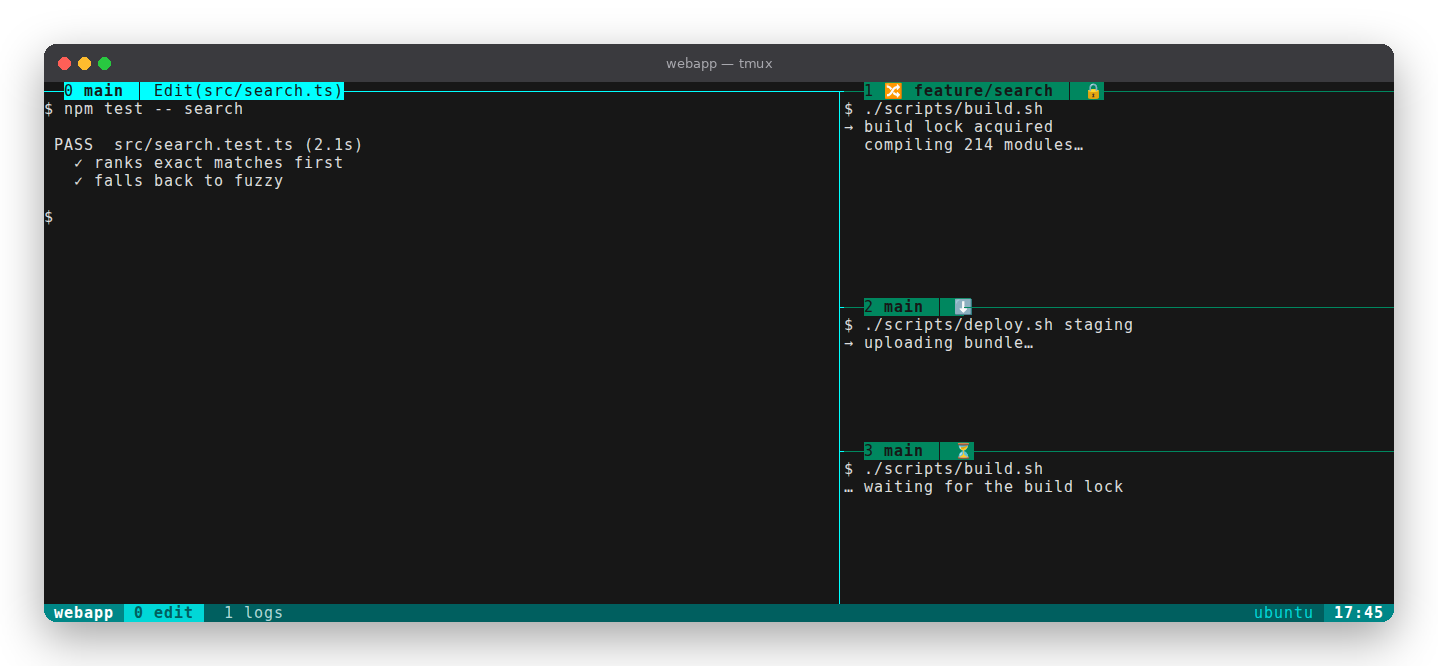
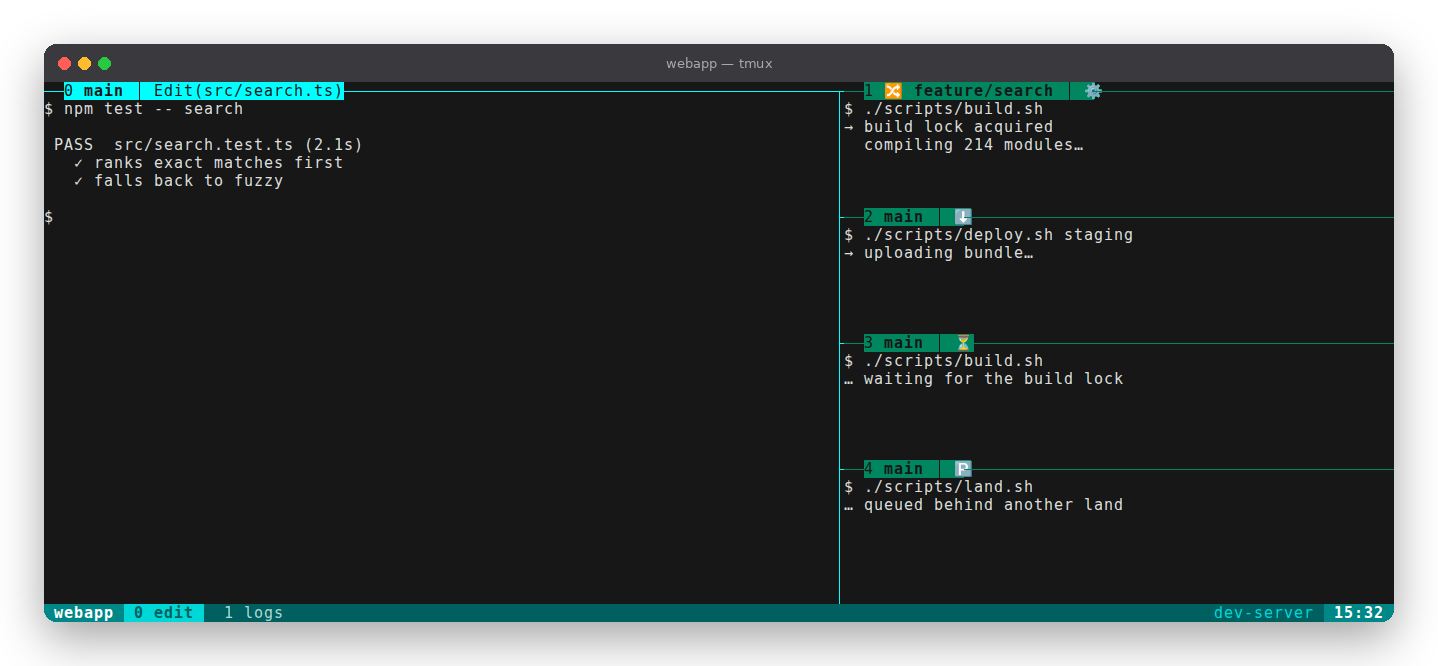
feat(tmux): give `.land` the wait/hold grammar and split glyphs by state
`.gate` modelled a queue position (`wait`/`hold`); `.land` modelled only
presence (`<pid>`), because nothing serialized lands and there was no queue
to model. A project that now serializes them needs to say which of the two
states it is in, so `.land` accepts the same two tokens `.gate` already did.

This also fixes a glyph that was actively lying. A queued land used to render
⏳ from the *gate* file — "waiting for CPU" — when such a land was in fact
doomed: it held a rebase onto a `main` the winner had since moved and would
lose its fast-forward after paying a full gate. ⏳ read as "queued, will
proceed", which is precisely what it did not mean.

Taken as a whole rather than bolting a fourth glyph onto three, because the
existing pair had two problems:

- **The gate pair read backwards.** 🔒 meant "I own the lock, the gate is
  *running*", but a padlock reads as *blocked*; ⏳ meant "queued, doing
  nothing", but an hourglass reads as *in progress*. At a glance both were
  inverted. 🔒 is retired for ⚙.
- **The two concerns encoded the same axis on different metaphors** (gate:
  time → lock; land: place → motion), so nothing signalled that 🔒 and ⬇
  were the same *kind* of state.

The pairs now split by **state**, not concern — ⏳/🅿 stopped, ⚙/⬇ working —
so a glance reads "is it moving?" first and "which concern?" second.

No flag day in either direction. `read_state` splits on the *last* space, so
an old resolver reads a new two-token `.land` body's pid correctly; and this
[…]

diff --git a/README.md b/README.md
@@ -4,14 +4,15 @@ Version-controlled tmux setup: a per-project colour scheme driven by files that 
 **in each project**, plus the pane-border status line.
 
 ![A tmux session tinted by its project's palette. Each pane border carries its index and git
-branch; one pane is in a linked worktree and holds the build lock, another is landing a
-deploy, a third is waiting for the lock. The active pane's border also shows the tool Claude
-Code is running.](docs/screenshot.png)
+branch; one pane is in a linked worktree running the gate it holds the build lock for,
+another is landing a deploy, a third is queued for the build lock, a fourth is queued to
+land. The active pane's border also shows the tool Claude Code is running.](docs/screenshot.png)
 
 <sub>Everything at once, which no real session obliges you by doing: pane 1 sits in a linked
-worktree (`🔀`) holding the build lock (`🔒`), pane 2 is landing a deploy (`⬇`), pane 3 is
-waiting for the lock (`⏳`), and pane 0 shows Claude Code's current tool. It is generated
-rather than captured — see [docs/](docs/README.md).</sub>
+worktree (`🔀`) running the gate it holds the build lock for (`⚙`), pane 2 is landing a
+deploy (`⬇`), pane 3 is queued for the build lock (`⏳`), pane 4 is queued to land (`🅿`),
+and pane 0 shows Claude Code's current tool. It is generated rather than captured — see
+[docs/](docs/README.md).</sub>
 
 ## What it does
 
@@ -20,8 +21,10 @@ rather than captured — see [docs/](docs/README.md).</sub>
   `.tmux-theme` file in the project itself; a project without one gets a neutral grey.
 - **Branch and worktree in the pane border** — each pane shows its index, its current git
   branch, and a `🔀` when it sits in a *linked* worktree rather than the primary checkout.
-- **State glyphs a project publishes** — `🔒` holds the build lock, `⏳` waits for it, `⬇` a
-  deploy is landing here. A project drops a file in its git dir; it never calls tmux.
+- **State glyphs a project publishes** — one grammar, two concerns: `⏳` queued for the build
+  lock and `⚙` running under it, `🅿` queued to land and `⬇` landing. The pairs split by
+  *state*, not by concern — `⏳`/`🅿` are stopped, `⚙`/`⬇` are working — so a glance reads
+  "is it moving?" first. A project drops a file in its git dir; it never calls tmux.
 - **Mouse on** — click to focus a pane or window, drag a border to resize, wheel to scroll.
 - **Session name as the tab title** — `set-titles` pushes the session name as the terminal
   window title, so iTerm shows one tab per session (see [iTerm tab title](#iterm-tab-title)).
@@ -115,13 +118,24 @@ namespace. It never calls tmux, and this repo never learns the project's name.
 
 ```
 $(git rev-parse --git-common-dir)/tmux-state/
-  <pane-id>.gate    # "wait <pid>"  -> ⏳     "hold <pid>"  -> 🔒
-  <pane-id>.land    # "<pid>"       -> ⬇
+  <pane-id>.gate    # "wait <pid>"  -> ⏳     "hold <pid>"  -> ⚙
+  <pane-id>.land    # "wait <pid>"  -> 🅿    "hold <pid>"  -> ⬇
 ```
 
 `<pane-id>` is `$TMUX_PANE`, which is an ordinary environment variable — reading it is not a
 tmux call, so a project stays entirely tmux-ignorant. `pane-status.sh` polls these files once
 per `status-interval` and renders at most one glyph, `gate` before `land`.
+
+**Both concerns share one grammar — `wait` is queued behind someone, `hold` is doing the
+thing.** That is what lets a reader learn the protocol once: the glyph pairs follow the
+*state* split rather than the concern, so `⏳`/`🅿` both mean stopped and `⚙`/`⬇` both
+mean working.
+
+A `.land` file carrying an unrecognized token — including the bare `"<pid>"` that writers
+predating this grammar published — renders as `⬇`. Adding the `wait` state was therefore
+backward compatible in both directions: `read_state` splits on the *last* space, so an old
+resolver reads a new two-token body's pid correctly, and a new resolver falls back for an old
+one-token body. No flag day was needed on either side.
 
 Two properties are worth understanding, because they are the reason for the shape:
 

diff --git a/docs/README.md b/docs/README.md
@@ -2,7 +2,7 @@
 
 `screenshot.png` in this directory is the picture at the top of the [main README](../README.md).
 It is generated rather than captured, so it can show every indicator at once — a worktree
-marker, all three state glyphs and the Claude Code tool label — which no real session obliges
+marker, all four state glyphs and the Claude Code tool label — which no real session obliges
 you by doing on demand.
 
 **None of this is needed to use the config.** It is only needed to rebuild the picture.
